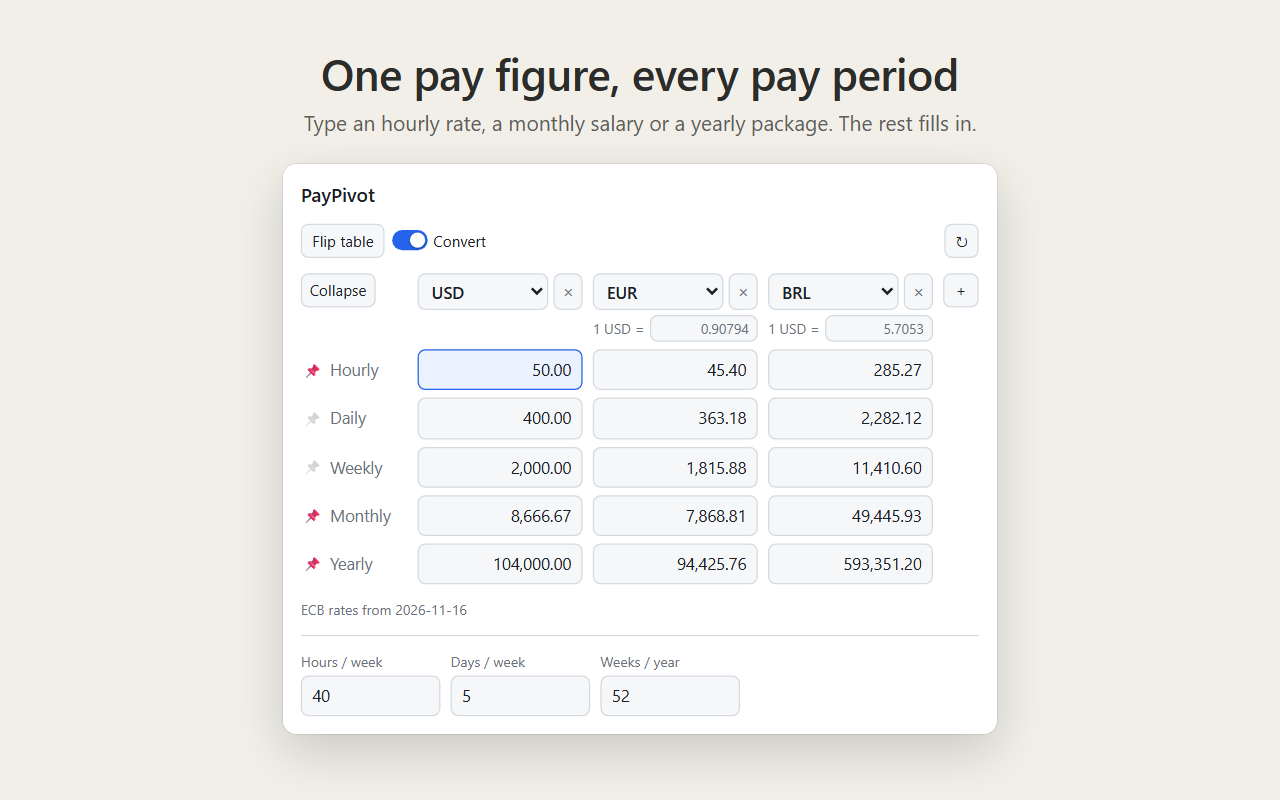
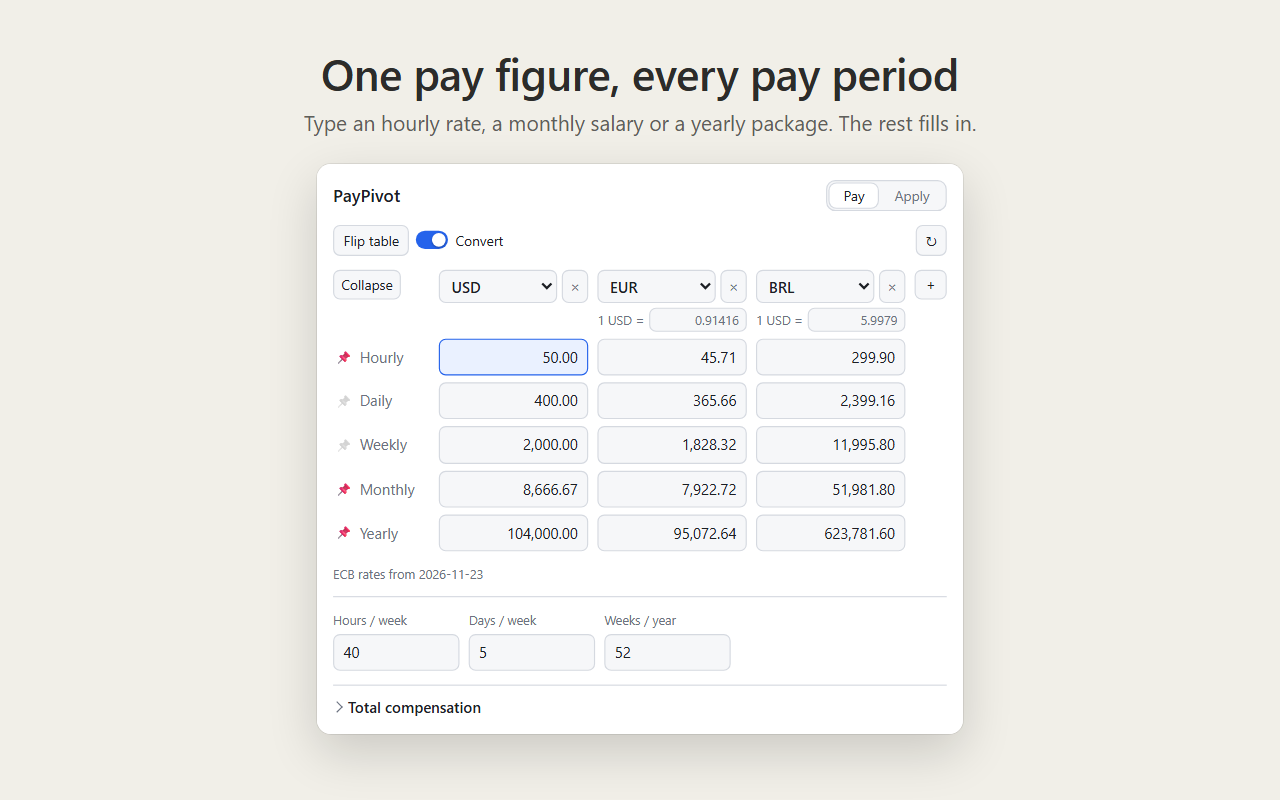
Update store assets for PayPivot 2.0
Rename the extension to "PayPivot — Salary Converter & Job Application
Helper", rewrite the store description for the Pay and Apply features,
and replace the screenshots with five covering the pay table, converting
from a job post, total compensation, the Apply tab and the page helper.
The promo tile subtitle follows the new name.

diff --git a/store/stage.html b/store/stage.html
@@ -3,7 +3,11 @@
 <head>
 <meta charset="utf-8">
 <title>PayPivot store screenshot stage</title>
-<!-- Renders a 1280x800 store screenshot of the real popup. Open stage.html?shot=1 (2, 3) from a local server at the repository root. -->
+<!--
+  Renders a 1280x800 store screenshot of the real popup (and, for shot 5, the real page helper).
+  Open stage.html?shot=1 (2 to 5) from a local server at the repository root. Each shot seeds the
+  popup's storage (localStorage outside the extension) with fictional data before loading it.
+-->
 <style>
   html, body { margin: 0; width: 1280px; height: 800px; overflow: hidden; }
   body {
@@ -12,68 +16,191 @@
     display: flex; flex-direction: column; align-items: center;
   }
   h1 { margin: 44px 0 6px; font-size: 44px; font-weight: 600; letter-spacing: -0.5px; }
-  p { margin: 0 0 28px; font-size: 21px; color: #5F5E5A; }
-  #frame {
-    background: #fff; border-radius: 14px; overflow: hidden;
+  p.sub { margin: 0 0 28px; font-size: 21px; color: #5F5E5A; }
+  .stage { display: flex; align-items: center; justify-content: center; gap: 56px; }
+  .frame {
+    background: #fff; border-radius: 14px; overflow: hidden; flex: none;
     box-shadow: 0 0 0 1px rgba(0,0,0,.08), 0 18px 50px rgba(0,0,0,.16);
   }
   iframe { border: 0; display: block; transform-origin: 0 0; color-scheme: light; }
+
+  /* Shot 2: a job post with the figure selected and the right-click menu open. */
+  .post {
+    width: 470px; background: #fff; border-radius: 14px; padding: 30px 32px 34px; position: relative;
+    box-shadow: 0 0 0 1px rgba(0,0,0,.08), 0 18px 50px rgba(0,0,0,.12);
+    font-size: 17px; line-height: 1.55; color: #3d3d3a;
+  }
+  .post h2 { margin: 0 0 4px; font-size: 25px; color: #2C2C2A; }
+  .post .meta { margin: 0 0 18px; color: #6b6a66; font-size: 16px; }
+  .post p { margin: 0 0 14px; }
+  .post mark { background: #b9d3ff; color: inherit; padding: 1px 0; }
+  .menu {
+    position: absolute; left: 150px; top: 238px; width: 400px; white-space: nowrap; background: #fff; border-radius: 8px;
+    padding: 6px 0; font-size: 15px; color: #222;
+    box-shadow: 0 0 0 1px rgba(0,0,0,.1), 0 10px 30px rgba(0,0,0,.2);
+  }
+  .menu div { padding: 7px 16px; display: flex; align-items: center; gap: 10px; }
+  .menu .sep { height: 1px; background: #e4e4e4; margin: 5px 0; padding: 0; }
+  .menu .hot { background: #e8effd; }
+  .menu img { width: 16px; height: 16px; }
+  .menu .muted { color: #555; padding-left: 42px; }
+
+  /* Shot 5: a browser window around the sample application form. */
+  .browser { border-radius: 12px; }
+  .bar {
+    height: 40px; background: #e9e7e1; display: flex; align-items: center; gap: 8px; padding: 0 14px;
+  }
+  .bar i { width: 12px; height: 12px; border-radius: 50%; background: #cfccc4; }
+  .bar span {
+    margin-left: 14px; flex: 1; background: #fff; border-radius: 6px; height: 24px; line-height: 24px;
+    padding: 0 12px; font-size: 13px; color: #6b6a66;
+  }
 </style>
+<script src="../shared/parse.js"></script>
 </head>
 <body>
 <h1 id="title"></h1>
-<p id="sub"></p>
-<div id="frame"><iframe id="popup" width="800" height="600"></iframe></div>
+<p class="sub" id="sub"></p>
+<div class="stage" id="stage"></div>
 <script>
-const base = {
+// ---------- fictional data ----------
+const calculator = {
   codes: ['USD', 'EUR', 'BRL'], convert: true, transposed: false, collapsed: false,
   pinned: ['hour', 'month', 'year'], hoursPerWeek: 40, daysPerWeek: 5, weeksPerYear: 52,
   anchor: { period: 'hour', cur: 'USD', text: '50' },
   rates: {}, manual: {}, ratesBase: '', rateDate: '', ratesFetchedAt: 0, names: null,
 };
+const profile = {
+  firstName: 'Sam', lastName: 'Rivera', email: 'sam.rivera@example.com', phone: '+351 912 345 678',
+  city: 'Lisbon', country: 'Portugal',
+  linkedin: 'https://linkedin.com/in/samrivera', github: 'https://github.com/samrivera',
+  website: 'https://samrivera.dev',
+  title: 'Senior Frontend Engineer', company: 'Brightline', experience: '8',
+  workAuth: 'EU citizen, no sponsorship needed', notice: '30 days', salary: '€75,000 a year',
+};
+const snippets = [
+  { id: 's1', title: 'Short bio', body: 'Frontend engineer with eight years of experience building accessible, fast web apps, most recently leading the design system team at Brightline.' },
+  { id: 's2', title: 'Why I’m looking', body: 'I’m looking for a product-focused team where I can work closely with design and own features end to end.' },
+];
+const files = {
+  items: [
+    { id: 'f1', label: 'Résumé — English', name: 'sam-rivera-resume.pdf', type: 'application/pdf', size: 184320, addedAt: Date.parse('2026-11-02') },
+    { id: 'f2', label: 'CV — Português', name: 'sam-rivera-cv-pt.pdf', type: 'application/pdf', size: 179200, addedAt: Date.parse('2026-11-02') },
+  ],
+  defaultId: 'f1',
+};
+
+// ---------- shots ----------
 const shots = {
   1: {
     title: 'One pay figure, every pay period',
     sub: 'Type an hourly rate, a monthly salary or a yearly package. The rest fills in.',
-    state: {},
+    calculator: {},
+    ui: { tab: 'pay', open: {} },
   },
   2: {
-    title: 'Shape the table your way',
-    sub: 'Pin the periods you care about, collapse the rest, or flip rows and columns.',
-    state: {
-      codes: ['EUR', 'USD', 'GBP'], transposed: true, collapsed: true,
-      anchor: { period: 'year', cur: 'EUR', text: '90,000' },
-    },
+    title: 'Straight from the job post',
+    sub: 'Select a salary on any page, right-click, and PayPivot reads the amount, currency and period.',
+    calculator: { codes: ['EUR', 'USD'], collapsed: true, anchor: { period: 'hour', cur: 'EUR', text: '40' } },
+    ui: { tab: 'pay', open: {} },
+    pending: '$120k – $150k a year',
+    box: { w: 560, h: 560, scale: 1.25 },
   },
   3: {
-    title: 'Your hours, your numbers',
-    sub: 'Set your working week, and switch currencies off for a plain list.',
-    state: {
-      codes: ['USD', 'EUR'], convert: false, hoursPerWeek: 32, daysPerWeek: 4, weeksPerYear: 48,
-      anchor: { period: 'month', cur: 'USD', text: '6,500' },
+    title: 'See what an offer is really worth',
+    sub: 'Add bonus, equity, benefits and time off for the yearly total and an effective hourly rate.',
+    calculator: {
+      codes: ['USD', 'EUR'], collapsed: true, anchor: { period: 'year', cur: 'USD', text: '135,000' },
+      comp: { cur: 'USD', bonus: '10', bonusType: 'percent', equity: '80,000', vest: 4, signon: '15,000', signonYears: 1, benefits: '9,000', pto: '25', costs: '3,000' },
     },
+    ui: { tab: 'pay', open: { comp: true } },
+    scrollTo: 'comp',
+  },
+  4: {
+    title: 'Your details, one click away',
+    sub: 'Pin the profile fields you use most. Reusable answers and résumés are a click further.',
+    helperOn: true,
+    ui: { tab: 'apply', open: { profileGroup: true }, profile: { pinned: ['email', 'phone', 'linkedin', 'github', 'website'], collapsed: true } },
+  },
+  5: {
+    title: 'Fill application forms in a click',
+    sub: 'Optional: PayPivot recognises the fields and fills them from your profile. You stay in control.',
+    form: true,
   },
 };
+
 const shot = shots[new URLSearchParams(location.search).get('shot')] || shots[1];
 document.getElementById('title').textContent = shot.title;
 document.getElementById('sub').textContent = shot.sub;
-localStorage.setItem('state2', JSON.stringify({ ...base, ...shot.state }));
+const stage = document.getElementById('stage');
 
-const frame = document.getElementById('frame');
-const popup = document.getElementById('popup');
-popup.src = '../popup.html';
+localStorage.clear();
+const put = (key, value) => localStorage.setItem(key, JSON.stringify(value));
+put('state2', { ...calculator, ...shot.calculator });
+put('profile', profile);
+put('snippets', snippets);
+put('files', files);
+if (shot.ui) put('ui', shot.ui);
+if (shot.pending) put('pending', { text: shot.pending, result: PayPivot.parseSalary(shot.pending, 'en-US'), at: Date.now() });
 
-function fit() {
-  const body = popup.contentDocument && popup.contentDocument.body;
-  if (!body || !body.offsetWidth) return;
-  const w = body.offsetWidth, h = body.offsetHeight;
-  const scale = Math.min(1.7, 1160 / w, 570 / h);
-  popup.width = w; popup.height = h;
-  popup.style.transform = `scale(${scale})`;
-  frame.style.width = `${w * scale}px`;
-  frame.style.height = `${h * scale}px`;
+if (shot.pending) {
+  stage.insertAdjacentHTML('beforeend', `
+    <div class="post">
+      <h2>Senior Frontend Engineer</h2>
+      <p class="meta">Remote (United States) · Full time</p>
+      <p>You’ll lead the build of our customer dashboard, working closely with design and product.</p>
+      <p><strong>Compensation:</strong> <mark>${shot.pending}</mark>, plus equity and a yearly learning budget.</p>
+      <p>We review every application within a week.</p>
+      <div class="menu">
+        <div class="muted">Copy</div>
+        <div class="muted">Search Google for “${shot.pending}”</div>
+        <div class="sep"></div>
+        <div class="hot"><img src="../icons/icon16.png" alt="">Convert “${shot.pending}” with PayPivot</div>
+        <div class="sep"></div>
+        <div class="muted">Inspect</div>
+      </div>
+    </div>`);
 }
-setInterval(fit, 100);
+
+if (shot.form) {
+  stage.insertAdjacentHTML('beforeend', `
+    <div class="frame browser">
+      <div class="bar"><i></i><i></i><i></i><span>careers.example.com/jobs/frontend-engineer/apply</span></div>
+      <iframe id="form" src="job-form.html" width="1100" height="590"></iframe>
+    </div>`);
+} else {
+  stage.insertAdjacentHTML('beforeend', '<div class="frame"><iframe id="popup" src="../popup.html"></iframe></div>');
+  const popup = document.getElementById('popup');
+  const frame = popup.parentElement;
+  const box = shot.box || { w: 1160, h: 570, scale: 1.7 };
+  let scrolled = false;
+  const fit = () => {
+    const doc = popup.contentDocument;
+    const body = doc && doc.body;
+    if (!body || !body.offsetWidth) return;
+    if (shot.scrollTo && !scrolled && doc.getElementById(shot.scrollTo)) {
+      const target = doc.getElementById(shot.scrollTo);
+      body.scrollTop = target.offsetTop - 70;
+      scrolled = body.scrollTop > 0;
+    }
+    if (shot.helperOn && doc.getElementById('helperHint')) {
+      // Outside the extension the switch is disabled; show it as the extension does when it is on.
+      const toggle = doc.getElementById('helperToggle');
+      toggle.style.transition = 'none'; // headless screenshots can catch it mid-slide
+      toggle.disabled = false;
+      toggle.checked = true;
+      doc.getElementById('helperHint').textContent =
+        'On. Application forms show PayPivot buttons on fields it can fill. Reload pages that were already open.';
+    }
+    const w = body.offsetWidth, h = body.offsetHeight;
+    const scale = Math.min(box.scale, box.w / w, box.h / h);
+    popup.width = w; popup.height = h;
+    popup.style.transform = `scale(${scale})`;
+    frame.style.width = `${w * scale}px`;
+    frame.style.height = `${h * scale}px`;
+  };
+  setInterval(fit, 100);
+}
 </script>
 </body>
 </html>

diff --git a/store/job-form.html b/store/job-form.html
@@ -1,0 +1,71 @@
+<!doctype html>
+<html lang="en">
+<head>
+<meta charset="utf-8">
+<title>Apply — Senior Frontend Engineer</title>
+<!--
+  A fictional application form for store screenshot 5 (see stage.html). It runs the real page
+  helper (content/helper.js) with a stand-in for the chrome.* APIs that supplies a fictional profile.
+-->
+<style>
+  * { box-sizing: border-box; }
+  html { color-scheme: light; }
+  body { margin: 0; font: 15px/1.45 "Segoe UI", system-ui, sans-serif; color: #24262b; background: #fff; }
+  header { padding: 22px 48px 18px; border-bottom: 1px solid #ececec; display: flex; align-items: baseline; gap: 14px; }
+  header b { font-size: 18px; }
+  header span { color: #777; }
+  main { padding: 22px 48px; }
+  h1 { margin: 0 0 4px; font-size: 24px; }
+  .lead { margin: 0 0 20px; color: #666; }
+  form { display: grid; grid-template-columns: 1fr 1fr; gap: 14px 28px; max-width: 1000px; }
+  .full { grid-column: 1 / -1; }
+  label, .q { display: block; font-weight: 600; font-size: 14px; margin-bottom: 5px; }
+  input, select, textarea {
+    width: 100%; padding: 9px 11px; font: inherit; color: inherit;
+    border: 1px solid #cfd3da; border-radius: 6px; background: #fff;
+  }
+  textarea { height: 64px; resize: none; }
+  .drop {
+    position: relative; border: 1.5px dashed #b9bec7; border-radius: 6px; padding: 10px; text-align: center;
+    color: #666; font-size: 14px;
+  }
+  .drop input { position: absolute; inset: 0; opacity: 0; }
+</style>
+</head>
+<body>
+<header><b>Northwind</b><span>Careers</span></header>
+<main>
+  <h1>Senior Frontend Engineer</h1>
+  <p class="lead">Remote · Full time</p>
+  <form onsubmit="event.preventDefault()">
+    <div><label for="fn">First name</label><input id="fn" name="first_name" autocomplete="given-name"></div>
+    <div><label for="ln">Last name</label><input id="ln" name="last_name" autocomplete="family-name"></div>
+    <div><label for="em">Email</label><input id="em" type="email" name="email"></div>
+    <div><label for="ph">Phone</label><input id="ph" type="tel" name="phone"></div>
+    <div><label for="li">LinkedIn profile</label><input id="li" name="linkedin"></div>
+    <div><label for="sal">Salary expectations</label><input id="sal" name="salary"></div>
+    <div><div class="q">Résumé / CV</div><div class="drop">Drop a file here or click to upload<input id="cv" type="file" name="resume"></div></div>
+    <div><label for="why">Why are you interested in Northwind?</label><textarea id="why" name="why"></textarea></div>
+  </form>
+</main>
+<script>
+  // Stand-in for the extension APIs the page helper uses, with a fictional profile.
+  const data = {
+    profile: {
+      firstName: 'Sam', lastName: 'Rivera', email: 'sam.rivera@example.com', phone: '+351 912 345 678',
+      linkedin: 'https://linkedin.com/in/samrivera', salary: '€75,000 a year',
+    },
+    files: { items: [{ id: 'f1', label: 'Résumé — English', name: 'sam-rivera-resume.pdf', type: 'application/pdf', size: 184320 }], defaultId: 'f1' },
+  };
+  window.chrome = {
+    storage: {
+      local: { get: async (key) => ({ [key]: data[key] }), set: async () => {}, remove: async () => {} },
+      onChanged: { addListener() {} },
+    },
+    runtime: { sendMessage: async () => ({ error: 'missing' }) },
+  };
+</script>
+<script src="../shared/storage.js"></script>
+<script src="../content/helper.js"></script>
+</body>
+</html>

diff --git a/store/promo.html b/store/promo.html
@@ -19,6 +19,6 @@
 <body>
   <img src="../icons/icon.svg" alt="">
   <h1>PayPivot</h1>
-  <p>Salary and currency converter</p>
+  <p>Salary converter &amp; job application helper</p>
 </body>
 </html>

diff --git a/store/listing.md b/store/listing.md
@@ -6,11 +6,11 @@ Text to paste into the Developer Dashboard. Images are in this folder.
 
 **Name** (taken from the manifest)
 
-PayPivot — Salary & Currency Converter
+PayPivot — Salary Converter & Job Application Helper
 
 **Summary** (taken from the manifest description, 132 characters max)
 
-Convert a salary between hourly, daily, weekly, monthly and yearly, and between currencies.
+Convert salaries between pay periods and currencies, add up total compensation, and fill job applications faster.
 
 **Category**
 
@@ -22,27 +22,32 @@ English
 
 **Description**
 
-PayPivot turns one pay figure into all the others. Type an hourly rate, a monthly salary or a yearly package, in any currency, and see the rest instantly.
+PayPivot is a small companion for job hunting. It turns any pay figure into every other, adds up what an offer is really worth, and keeps your details ready for application forms.
 
-It's built for reading job descriptions: "$50 an hour" and "€90k a year" become comparable in a couple of keystrokes.
+PAY
 
-WHAT IT DOES
-
-• Type anywhere. Hourly, daily, weekly, monthly and yearly are all inputs. The last one you typed in drives the rest.
-• Forgiving input. 50, $50.00, 120,000, 120k, 1.2m and 1.234,56 all work, so you can paste straight from a job post.
+• One figure, every period. Hourly, daily, weekly, monthly and yearly are all inputs. Type in any of them and the rest fill in.
+• Straight from the job post. Select "$120k – $150k a year" or "R$ 8.000 por mês" on any page, right-click and choose Convert with PayPivot. The amount, range, currency and pay period are read for you.
+• Currencies. Show up to four side by side, with daily European Central Bank reference rates you can override by hand, or switch conversion off for a plain list.
+• Total compensation. Add bonus, equity, sign-on, benefits, paid time off and costs to see the yearly total and the effective hourly rate of an offer.
 • Your working pattern. Set hours per week, days per week and weeks per year.
-• Currencies. Show up to four side by side, with daily European Central Bank reference rates you can override by hand.
-• No-conversion mode. Switch currencies off for a plain list of what your time is worth.
-• Shape the table. Pin the periods you care about and collapse the rest, or flip the table so periods run across and currencies run down.
-• Remembers everything. Your figure, currencies and layout are restored next time.
+• Shape the table. Pin the periods you care about and collapse the rest, or flip rows and columns.
+
+APPLY
+
+• Profile. Keep your name, contact details, links, current role, work authorisation and salary expectation in one place, each a click away from the clipboard. Pin the ones you use most.
+• Snippets. Save reusable answers like a short bio or "why I'm looking", and insert them into any text field from the right-click menu.
+• Résumés. Store several versions and pick a default.
+• Fill forms on the page (optional). Turn on "Help me on application pages" and PayPivot recognises fields such as name, email, LinkedIn, salary expectation and résumé upload. A small button on each fills it, or Fill all does the lot, with Undo. Nothing is filled until you click, forms are never submitted, and password and payment fields are never touched.
+• Backup. Export everything to one file and import it on another computer.
 
 PRIVACY
 
-Everything is stored locally in your browser. The only network request fetches exchange rates from the Frankfurter API, and it contains nothing but currency codes. With conversion switched off, no requests are made. No account, no tracking, no ads.
+Everything you enter stays in your browser. Your profile, snippets and résumés are never sent anywhere; they are only written into a page's form when you click one of PayPivot's buttons. The only network request fetches exchange rates from the Frankfurter API and contains nothing but currency codes. The page helper is off until you turn it on, and Chrome asks for your permission first. No account, no tracking, no ads.
 
 GOOD TO KNOW
 
-Figures are gross pay. Taxes and benefits are not included. Exchange rates are daily reference rates, not live market rates.
+Figures are gross pay; taxes are not included. Exchange rates are daily reference rates, not live market rates. Some application sites build their forms in unusual ways, so a field may not be recognised; copying from the Apply tab always works.
 
 PayPivot is open source: https://github.com/vladisvrau/paypivot
 
@@ -51,9 +56,11 @@ PayPivot is open source: https://github.com/vladisvrau/paypivot
 | Slot | File | Size |
 |---|---|---|
 | Store icon | `../icons/icon128.png` | 128×128 |
-| Screenshot 1 | `screenshot-1.png` | 1280×800 |
-| Screenshot 2 | `screenshot-2.png` | 1280×800 |
-| Screenshot 3 | `screenshot-3.png` | 1280×800 |
+| Screenshot 1 | `screenshot-1.png` (every pay period) | 1280×800 |
+| Screenshot 2 | `screenshot-2.png` (convert from a job post) | 1280×800 |
+| Screenshot 3 | `screenshot-3.png` (total compensation) | 1280×800 |
+| Screenshot 4 | `screenshot-4.png` (profile and snippets) | 1280×800 |
+| Screenshot 5 | `screenshot-5.png` (filling a form) | 1280×800 |
 | Small promo tile | `promo-tile-440x280.png` | 440×280 |
 
 **Homepage URL**
@@ -122,4 +129,4 @@ https://github.com/vladisvrau/paypivot#privacy
 
 ## Regenerating the images
 
-Serve the repository root locally, then capture `store/stage.html?shot=1` (2, 3) at 1280×800 and `store/promo.html` at 440×280, for example with headless Chrome's `--screenshot` flag.
+Serve the repository root locally, then capture `store/stage.html?shot=1` (2 to 5) at 1280×800 and `store/promo.html` at 440×280, for example with headless Chrome's `--screenshot` flag.
